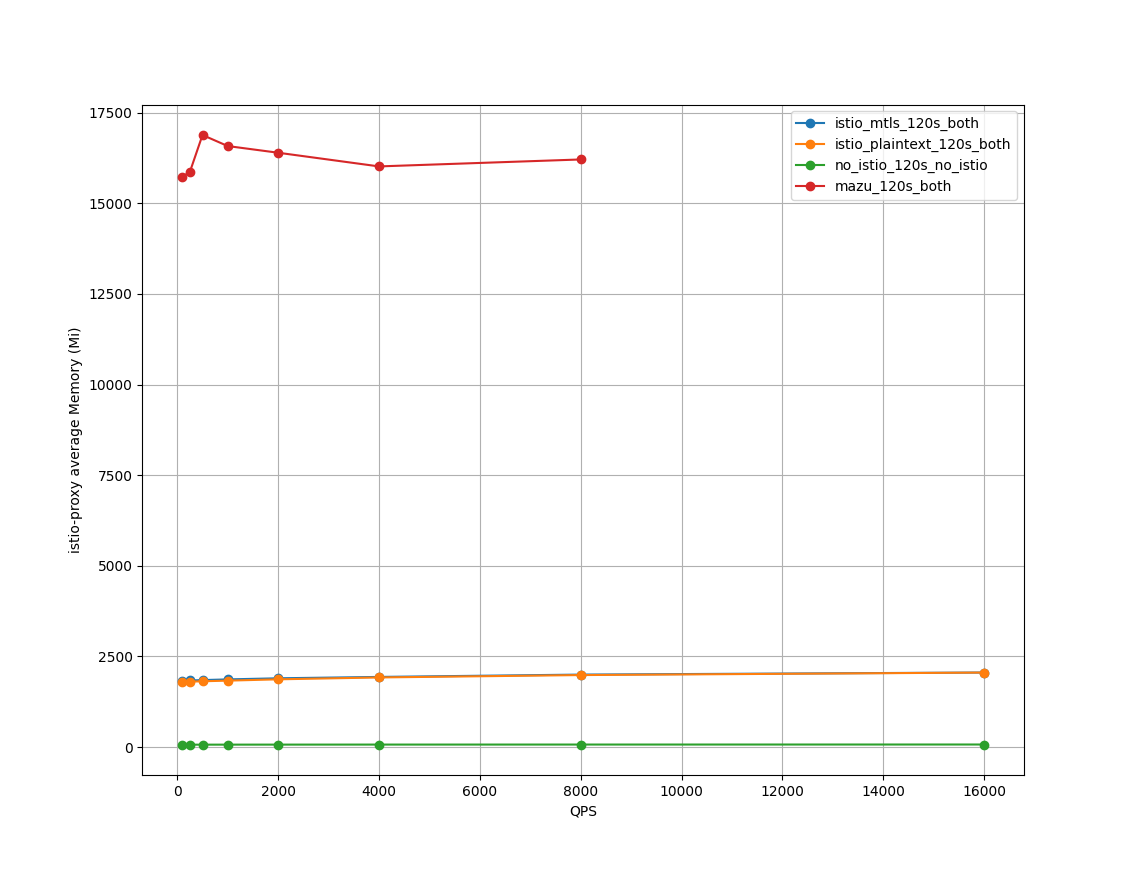
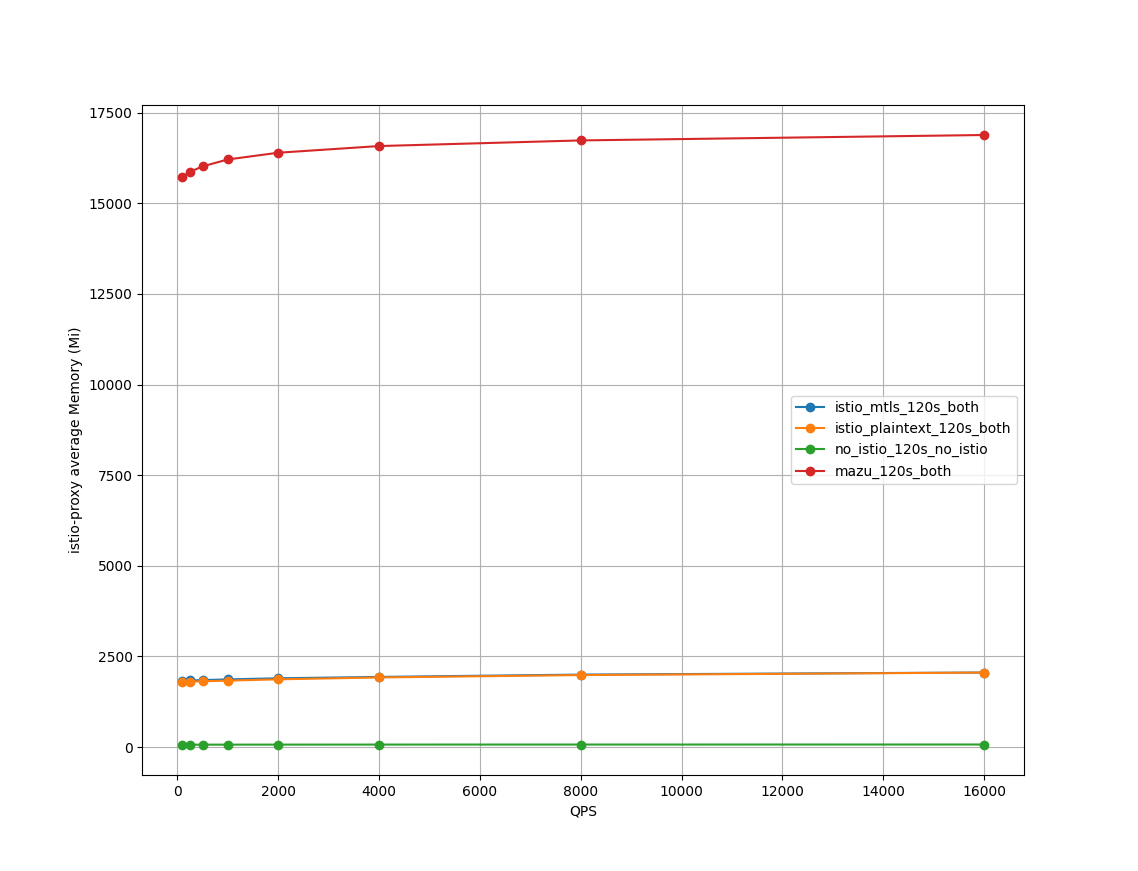
make plotting of cpu_mem better when actual qps lags behind target qps

Changed region(s): [[0.1538, 0.124, 0.8919, 0.217], [0.7074, 0.465, 0.8919, 0.558]]

diff --git a/perf/benchmark/graph_plotter/graph_plotter.py b/perf/benchmark/graph_plotter/graph_plotter.py
@@ -107,7 +107,6 @@ def get_data_helper(df, query_list, query_str, telemetry_mode, metric_name):
     # print("query_str=", query_str)
     # print("metric_name=", metric_name) 
 
-    prev = -1
     for ql in query_list:
         data = df.query(query_str)
         # print(f"queried for ql={ql}, telemetry_mode={telemetry_mode}")
@@ -123,21 +122,18 @@ def get_data_helper(df, query_list, query_str, telemetry_mode, metric_name):
                 else:
                     y_series_data.append(data[metric_name].head(1).values[0] / data["ActualQPS"].head(1).values[0])
                 
-                prev = data["ActualQPS"].head(1).values[0]
-                # print(f"prev={prev}")
             else:
                 # when nocatchup+uniform is true and the service can't keep up
                 # the actual qps doesn't reach the target qps leading to empty data
-                if prev != -1 and "ActualQPS==@ql and " in query_str:
+                if "ActualQPS==@ql and " in query_str:
                     
-                    new_query_str = query_str.replace("ActualQPS==@ql and ", "")
-                    new_df = df.query(new_query_str)
-                    sorted_df = new_df.sort_values("ActualQPS")
-                    new_data = sorted_df[sorted_df["ActualQPS"] > prev]
+                    new_query_str = query_str.replace("ActualQPS==@ql", f"Labels.str.contains('qps_{ql}')")
+                    new_data = df.query(new_query_str)
+                    # print(f"new_query_str={new_query_str}")
+                    # print(f"new_data = {new_data}")
 
-                    # print(f"next_row={new_data[metric_name].head(1).values[0]}")
                     if not new_data.head().empty:
-                        prev = new_data["ActualQPS"].head(1).values[0]
+                        # print(f"curr_data={new_data['ActualQPS'].head(1).values[0]}")
                         # print(f"queried for ql={ql}, telemetry_mode={telemetry_mode}, query_str={query_str}")
                         # print(f"latency={new_data[metric_name].head(1).values[0]}, qps={new_data['ActualQPS'].head(1).values[0]}")
                         # print(f"y_series_data={new_data[metric_name].head(1).values[0] / new_data['ActualQPS'].head(1).values[0]} with actual qps")
